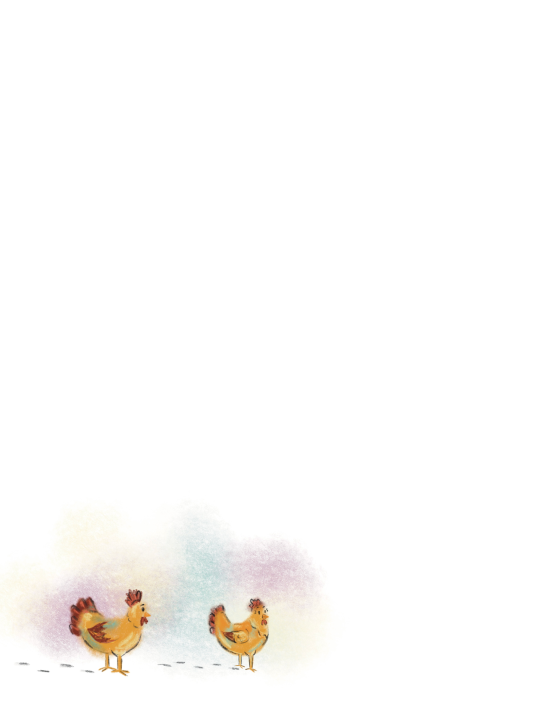
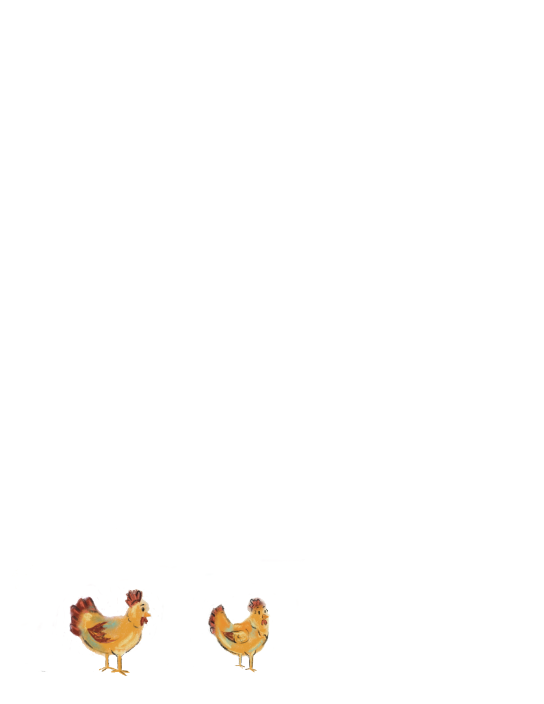
feat: fixed typos and updated links

Changed region(s): [[0.0312, 0.75, 0.5938, 0.9375], [0.125, 0.75, 0.1562, 0.7812]]

diff --git a/pages/parents.html b/pages/parents.html
@@ -12,10 +12,12 @@
 
 <body>
 	<header>
-		<a href="../" class="container">
-			<h1>Julie Ann Garnett</h1>
-			<p>Award Winning Christian Author</p>
-		</a>
+		<div class="logo-container">
+			<a href="../" class="container">
+				<h1>Julie Ann Garnett</h1>
+				<p>Award Winning Christian Author</p>
+			</a>
+		</div>
 		<div class="img-container">
 			<img id="banner" src="../assets/daisy.png" alt="Daisy's Delightful Day Banner">
 		</div>
@@ -30,7 +32,7 @@
 					cool, I
 					mean, if I was in your shoes I’d be digging into me as well. So, here’s the real
 					deal
-					about me. I was raised in a Christina home. I attended First Assembly of God
+					about me. I was raised in a Christian home. I attended First Assembly of God
 					church in
 					Erie, PA, and graduated from Valley Forge Christian College (now University of
 					Valley
@@ -78,7 +80,7 @@
 					</li>
 					<li>Pray. Pray. Then, pray some more. I have included an article I have had
 						since
-						before I even had my own children. 31 Biblica Virtues to Pray for Your
+						before I even had my own children. 31 Biblical Virtues to Pray for Your
 						Kids was
 						my guide to praying Scripture over my kids. Now, I use this to pray over
 						my
@@ -223,8 +225,8 @@
 						</span>
 					</li>
 					<li>
-						<b>Perserverance</b> - <p>"Lord, teach my children perserverance in all
-							they do, and help them especially to run with perserverance the
+						<b>Perseverance</b> - <p>"Lord, teach my children perseverance in all
+							they do, and help them especially to run with perseverance the
 							race marked out for them."</p>
 						<span>(<a href="https://biblia.com/bible/esv/hebrews/12/1"
 								target="_blank">Heb. 12:1</a>)
@@ -238,7 +240,7 @@
 						</span>
 					</li>
 					<li>
-						<b>Compassion</b> - <p>"Lord, please chlothe my children with the virtue
+						<b>Compassion</b> - <p>"Lord, please clothe my children with the virtue
 							of compassion."</p>
 						<span>(<a href="https://biblia.com/bible/esv/colossians/3/12"
 								target="_blank">Col. 3:12</a>)
@@ -333,7 +335,7 @@
 							develop a desire to see Your glory declared among the nations,
 							Your marvelous deeds among the peoples."</p>
 						<span>(<a href="https://biblia.com/bible/esv/Ps96.3"
-								target="_blank">Psalm 98:3</a>)
+								target="_blank">Psalm 96:3</a>)
 						</span>
 					</li>
 				</ol>
@@ -364,9 +366,7 @@
 				<a href="https://www.facebook.com/p/Julie-Ann-Garnett-Author-61560804407150/"
 					target="_blank"><i class="fa-brands fa-facebook fa-xl"
 						style="color: #fff;"></i></a>
-				<a href="#" target="_blank"><i class="fa-brands fa-x-twitter fa-xl"
-						style="color: #fff;"></i></a>
-				<a href="#" target="_blank"><i class="fa-brands fa-instagram fa-xl"
+				<a href="https://www.instagram.com/julieanngarnett_author/" target="_blank"><i class="fa-brands fa-instagram fa-xl"
 						style="color: #fff;"></i></a>
 			</div>
 

diff --git a/index.html b/index.html
@@ -57,6 +57,7 @@
 	</div>
 
 	<div class="author-backsplash-container">
+		<img id="chickens" src="./assets/chickens.png" alt="chickens">
 		<img id="author-backsplash" src="./assets/transition.png" alt="">
 		<div class="about-author">
 			<div class="author-container">
@@ -82,7 +83,9 @@
 						(only
 						kindness,
 						please). I’d love to hear from you!</p>
-					<button>Contact Me</button>
+						<a href="./pages/contact-me">
+							<button>Contact Me</button>
+						</a>
 				</div>
 			</div>
 		</div>
@@ -108,8 +111,9 @@
 					<br>
 					<span>*Third Place Winner of the Book Fest Award!*</span>
 				</p>
-
-				<button>Buy Now</button>
+				<a href="https://www.authorhouse.com/en/bookstore/bookdetails/860746-daisys-delightful-day" target="_blank">
+					<button >Buy Now</button>
+				</a>
 			</div>
 		</div>
 	</div>
@@ -134,9 +138,7 @@
 				<a href="https://www.facebook.com/p/Julie-Ann-Garnett-Author-61560804407150/"
 					target="_blank"><i class="fa-brands fa-facebook fa-xl"
 						style="color: #fff;"></i></a>
-				<a href="#" target="_blank"><i class="fa-brands fa-x-twitter fa-xl"
-						style="color: #fff;"></i></a>
-				<a href="#" target="_blank"><i class="fa-brands fa-instagram fa-xl"
+				<a href="https://www.instagram.com/julieanngarnett_author/" target="_blank"><i class="fa-brands fa-instagram fa-xl"
 						style="color: #fff;"></i></a>
 			</div>
 

diff --git a/pages/books.html b/pages/books.html
@@ -12,10 +12,12 @@
 
 <body>
 	<header>
-		<a href="../" class="container">
-			<h1>Julie Ann Garnett</h1>
-			<p>Award Winning Christian Author</p>
-		</a>
+		<div class="logo-container">
+			<a href="../" class="container">
+				<h1>Julie Ann Garnett</h1>
+				<p>Award Winning Christian Author</p>
+			</a>
+		</div>
 		<div class="img-container">
 			<img id="banner" src="../assets/daisy.png" alt="Daisy's Delightful Day Banner">
 		</div>
@@ -42,8 +44,9 @@
 					<br>
 					<span>*Third Place Winner of the Book Fest Award!*</span>
 				</p>
-
-				<button>Buy Now</button>
+				<a href="https://www.authorhouse.com/en/bookstore/bookdetails/860746-daisys-delightful-day" target="_blank">
+					<button>Buy Now</button>
+				</a>
 			</div>
 		</div>
 	</div>
@@ -68,9 +71,7 @@
 				<a href="https://www.facebook.com/p/Julie-Ann-Garnett-Author-61560804407150/"
 					target="_blank"><i class="fa-brands fa-facebook fa-xl"
 						style="color: #fff;"></i></a>
-				<a href="#" target="_blank"><i class="fa-brands fa-x-twitter fa-xl"
-						style="color: #fff;"></i></a>
-				<a href="#" target="_blank"><i class="fa-brands fa-instagram fa-xl"
+				<a href="https://www.instagram.com/julieanngarnett_author/" target="_blank"><i class="fa-brands fa-instagram fa-xl"
 						style="color: #fff;"></i></a>
 			</div>
 

diff --git a/pages/about-me.html b/pages/about-me.html
@@ -12,10 +12,12 @@
 
 <body>
 	<header>
-		<a href="../" class="container">
-			<h1>Julie Ann Garnett</h1>
-			<p>Award Winning Christian Author</p>
-		</a>
+		<div class="logo-container">
+			<a href="../" class="container">
+				<h1>Julie Ann Garnett</h1>
+				<p>Award Winning Christian Author</p>
+			</a>
+		</div>
 		<div class="img-container">
 			<img id="banner" src="../assets/daisy.png" alt="Daisy's Delightful Day Banner">
 		</div>
@@ -59,17 +61,15 @@
 				<a href="./books">Books</a>
 				<a href="./contact-me">Contact Me</a>
 				<a href="https://www.facebook.com/p/Julie-Ann-Garnett-Author-61560804407150/"
-					target="_blank">Follow
-					Me</a>
+					target="_blank">Follow Me
+				</a>
 			</nav>
 
 			<div class="nav-buttons">
 				<a href="https://www.facebook.com/p/Julie-Ann-Garnett-Author-61560804407150/"
 					target="_blank"><i class="fa-brands fa-facebook fa-xl"
 						style="color: #fff;"></i></a>
-				<a href="#" target="_blank"><i class="fa-brands fa-x-twitter fa-xl"
-						style="color: #fff;"></i></a>
-				<a href="#" target="_blank"><i class="fa-brands fa-instagram fa-xl"
+				<a href="https://www.instagram.com/julieanngarnett_author/" target="_blank"><i class="fa-brands fa-instagram fa-xl"
 						style="color: #fff;"></i></a>
 			</div>
 

diff --git a/pages/contact-me.html b/pages/contact-me.html
@@ -11,12 +11,13 @@
 </head>
 
 <body>
-
 	<header>
-		<a href="../" class="container">
-			<h1>Julie Ann Garnett</h1>
-			<p>Award Winning Christian Author</p>
-		</a>
+		<div class="logo-container">
+			<a href="../" class="container">
+				<h1>Julie Ann Garnett</h1>
+				<p>Award Winning Christian Author</p>
+			</a>
+		</div>
 		<div class="img-container">
 			<img id="banner" src="../assets/daisy.png" alt="Daisy's Delightful Day Banner">
 		</div>
@@ -28,6 +29,8 @@
 			<p>Of course you can contact me!</p>
 			<ul>
 				<li><b>Email</b> - julieanngarnett@gmail.com</li>
+				<li><b>Instagram</b> - julieanngarnett_author</li>
+				<li><b>Facebook</b> - julieanngarnett_author</li>
 			</ul>
 		</div>
 	</section>
@@ -52,9 +55,7 @@
 				<a href="https://www.facebook.com/p/Julie-Ann-Garnett-Author-61560804407150/"
 					target="_blank"><i class="fa-brands fa-facebook fa-xl"
 						style="color: #fff;"></i></a>
-				<a href="#" target="_blank"><i class="fa-brands fa-x-twitter fa-xl"
-						style="color: #fff;"></i></a>
-				<a href="#" target="_blank"><i class="fa-brands fa-instagram fa-xl"
+				<a href="https://www.instagram.com/julieanngarnett_author/" target="_blank"><i class="fa-brands fa-instagram fa-xl"
 						style="color: #fff;"></i></a>
 			</div>
 

diff --git a/styles.css b/styles.css
@@ -153,8 +153,8 @@ header {
 /* Books */
 .bubble:nth-child(2) {
 	position: absolute;
-	top: -100px;
-	right: -150px;
+	top: -70px;
+	right: -70px;
 }
 
 /* Contact Me */
@@ -313,7 +313,7 @@ button {
 .nav-buttons {
 	display: flex;
 	justify-content: space-between;
-	width: 300px;
+	width: 200px;
 	gap: 18px;
 	margin: 10px 0px;
 }
@@ -434,6 +434,13 @@ button {
 	color: var(--secondary-purple);
 }
 
+#chickens {
+	position: absolute;
+	z-index: 1;
+	top: -590px;
+	left: 750px;
+}
+
 /* Media Queries */
 @media (max-width: 768px) {
 	header {
@@ -441,17 +448,7 @@ button {
 	}
 
 	.logo-container {
-		width: 600
-		/* .container {
-	text-decoration: none;
-	text-align: left;
-	position: absolute;
-	line-height: 1.3;
-	left: 20%;
-	top: 5%;
-	color: var(--secondary-purple);
-} */
-		x;
+		width: 600px;
 	}
 
 	.container {
@@ -469,7 +466,12 @@ button {
 	}
 
 	#images {
-		width: 200px;
+		width: 150px;
+	}
+
+	#chickens {
+		top: -570px;
+		left: 200px;
 	}
 
 	.author-container {
@@ -495,6 +497,10 @@ button {
 	}
 
 	#events-section {
+		margin: 100px 0px;
+	}
+
+	.book-section {
 		margin: 100px 0px;
 	}
 

diff --git a/pages/events.html b/pages/events.html
@@ -12,15 +12,16 @@
 
 <body>
 	<header>
-		<a href="../" class="container">
-			<h1>Julie Ann Garnett</h1>
-			<p>Award Winning Christian Author</p>
-		</a>
+		<div class="logo-container">
+			<a href="../" class="container">
+				<h1>Julie Ann Garnett</h1>
+				<p>Award Winning Christian Author</p>
+			</a>
+		</div>
 		<div class="img-container">
 			<img id="banner" src="../assets/daisy.png" alt="Daisy's Delightful Day Banner">
 		</div>
 	</header>
-
 
 	<section id="events-section">
 		<div class="events-section">
@@ -52,9 +53,7 @@
 				<a href="https://www.facebook.com/p/Julie-Ann-Garnett-Author-61560804407150/"
 					target="_blank"><i class="fa-brands fa-facebook fa-xl"
 						style="color: #fff;"></i></a>
-				<a href="#" target="_blank"><i class="fa-brands fa-x-twitter fa-xl"
-						style="color: #fff;"></i></a>
-				<a href="#" target="_blank"><i class="fa-brands fa-instagram fa-xl"
+				<a href="https://www.instagram.com/julieanngarnett_author/" target="_blank"><i class="fa-brands fa-instagram fa-xl"
 						style="color: #fff;"></i></a>
 			</div>
 
